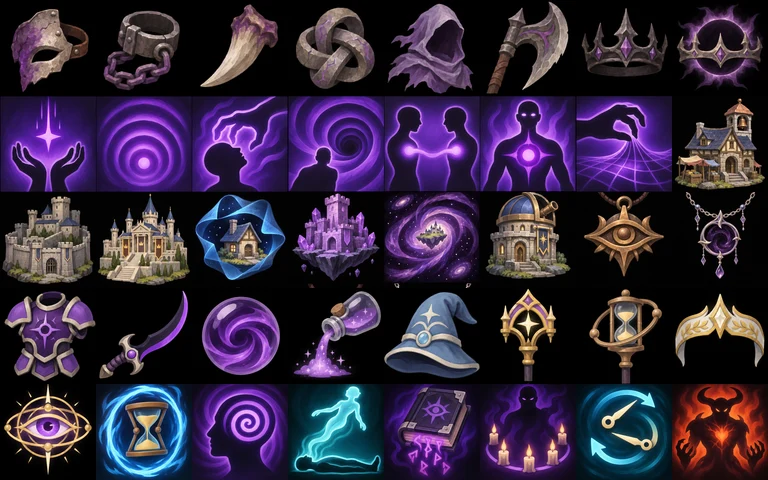
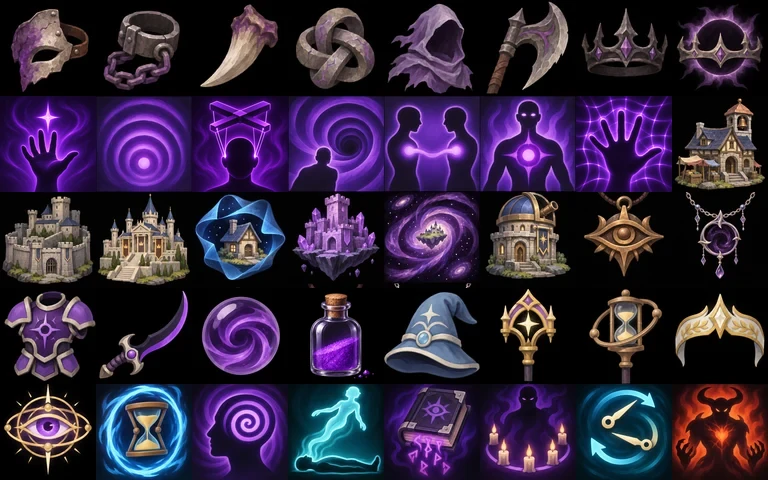
Correct Void skill hand silhouettes and redraw the Void Dust bottle

diff --git a/sw.js b/sw.js
@@ -1,5 +1,5 @@
 const prefix = 'progress-knight-' + self.registration.scope + '-';
-const cacheName = prefix + 'void-catalog-art-1';
+const cacheName = prefix + 'void-catalog-art-2';
 self.addEventListener('install', event => {
   event.waitUntil(caches.open(cacheName).then(cache => cache.addAll([
     './', './index.html', './previous.html','./centenarians.jpg','./isabella-100.jpg','./save-tools.js','./balance.js','./remastered.js','./remastered-art.jpg','./void-icons.webp','./void-catalog.webp','./neon-city.webp','./chronotech.webp','./city-portraits.webp','./void-forms.svg','./game.js', './late-art.jpg', './activity-art.jpg', './Magnus.png', './Isabella.png', './icon-180.png','./icon-192.png', './icon-512.png', './manifest.webmanifest'
